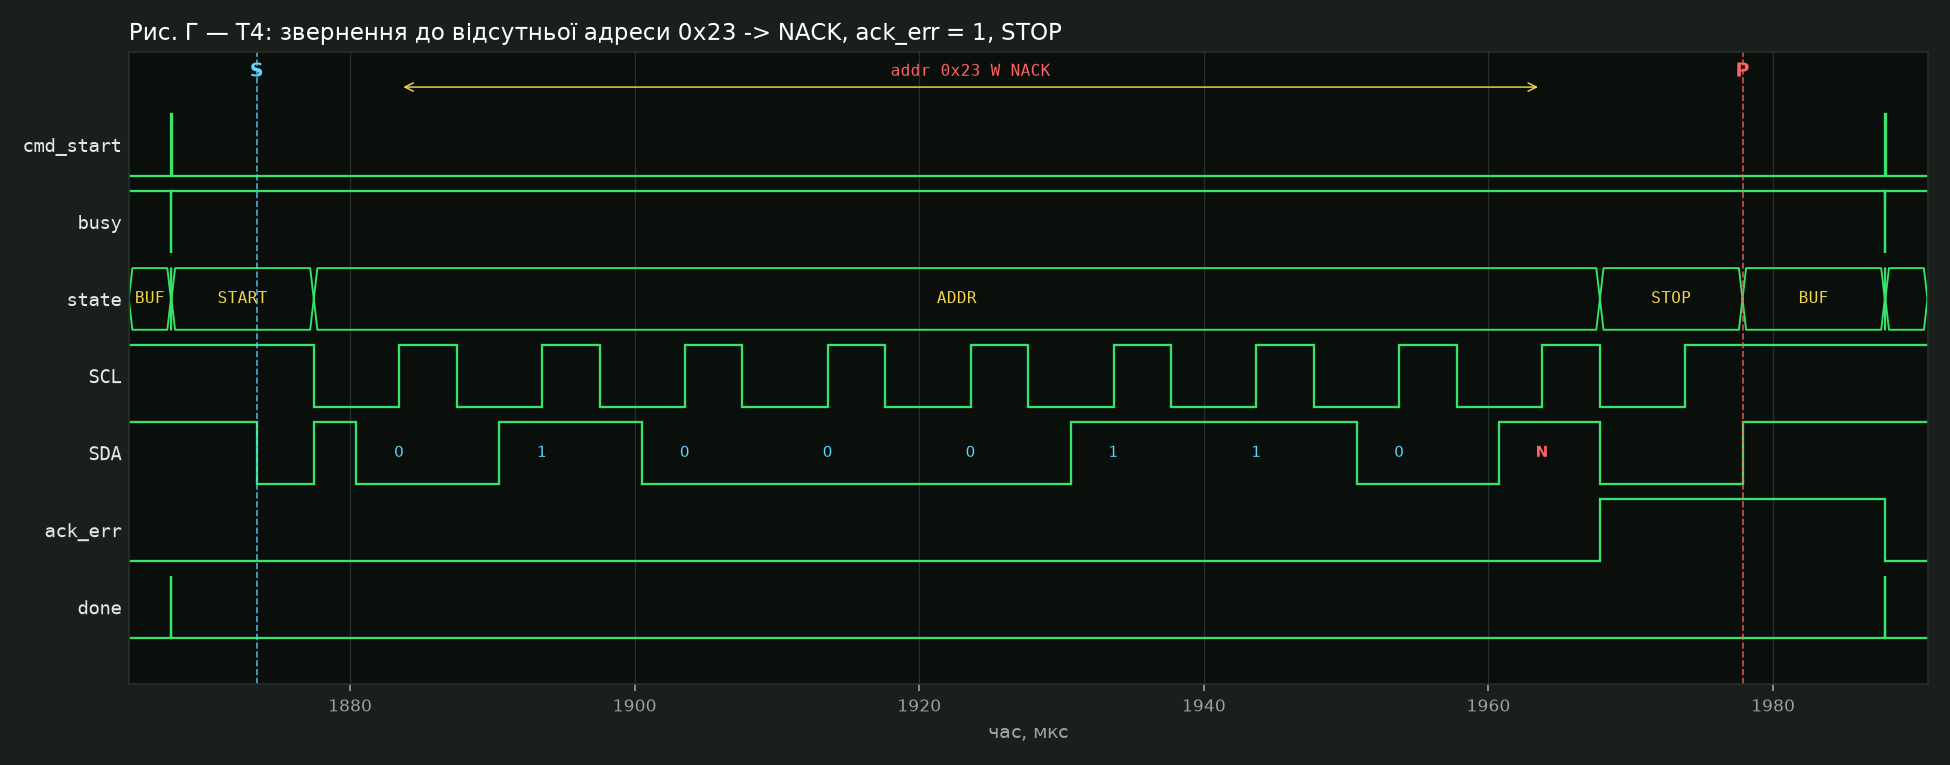
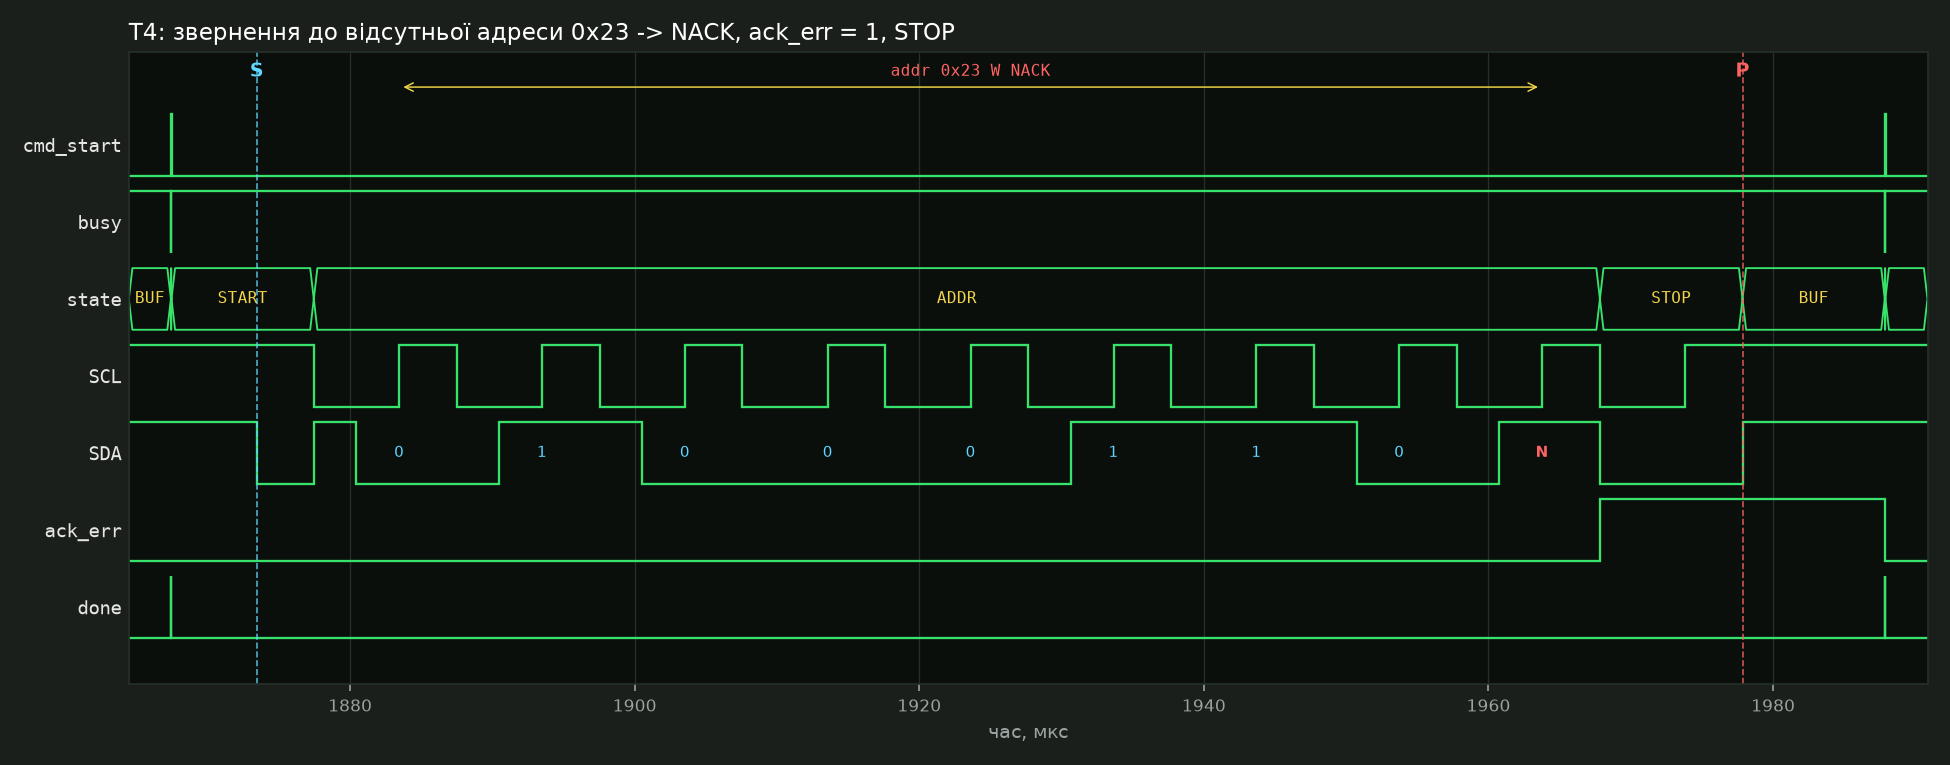
docs: drop figure numbers from waveform titles

Changed region(s): [[0.0615, 0.0301, 0.5538, 0.0601]]

diff --git a/sim/plot_waves.py b/sim/plot_waves.py
@@ -249,26 +249,26 @@ def main(freqs=("100000", "400000")):
             draw(d, [R("rst_n", "rst_n"), R("cmd_start", "cmd_start"), R("busy", "busy"),
                      R("state", "state", "state"), R("tx_data", "tx_data", "hex"), R("tx_req", "tx_req"),
                      R("SCL", "scl"), R("SDA", "sda"), R("ack_err", "ack_err"), R("done", "done")],
-                 a - pad, b + 3, f"Рис. А — T1: запис 5 байтів (ptr 0x02, DE AD BE EF) у пристрій 0x50, SCL = {khz} кГц",
+                 a - pad, b + 3, f"T1: запис 5 байтів (ptr 0x02, DE AD BE EF) у пристрій 0x50, SCL = {khz} кГц",
                  IMG / "wave_write.png")
             # 2. START + адресний байт (зум)
             draw(d, [R("state", "state", "state"), R("phase", "phase", "dec"), R("qtick", "qtick"),
                      R("u_tx.shreg", "tx_shreg", "hex"), R("scl_oe (DUT)", "scl_oe"), R("sda_oe (DUT)", "sda_oe"),
                      R("SCL", "scl"), R("SDA", "sda"), R("slave sda_low", "s_sda_low")],
-                 a - 3, a + 102, f"Рис. Б — START, адреса 0x50 + W і ACK веденого (фази 0–3 кожного такту SCL)",
+                 a - 3, a + 102, f"START, адреса 0x50 + W і ACK веденого (фази 0–3 кожного такту SCL)",
                  IMG / "wave_start_addr.png")
             # 3. читання (T2, друга транзакція пари)
             a, b = tr[2]
             draw(d, [R("busy", "busy"), R("state", "state", "state"), R("SCL", "scl"), R("SDA", "sda"),
                      R("slave sda_low", "s_sda_low"), R("sda_oe (DUT)", "sda_oe"), R("rx_valid", "rx_valid"),
                      R("rx_data", "rx_data", "hex"), R("done", "done")],
-                 a - 3, b + 3, f"Рис. В — T2: читання 4 байтів із 0x50 (майстер: ACK, ACK, ACK, NACK)",
+                 a - 3, b + 3, f"T2: читання 4 байтів із 0x50 (майстер: ACK, ACK, ACK, NACK)",
                  IMG / "wave_read.png")
             # 4. NACK (T4)
             a, b = tr[5]
             draw(d, [R("cmd_start", "cmd_start"), R("busy", "busy"), R("state", "state", "state"),
                      R("SCL", "scl"), R("SDA", "sda"), R("ack_err", "ack_err"), R("done", "done")],
-                 a - 3, b + 3, "Рис. Г — T4: звернення до відсутньої адреси 0x23 -> NACK, ack_err = 1, STOP",
+                 a - 3, b + 3, "T4: звернення до відсутньої адреси 0x23 -> NACK, ack_err = 1, STOP",
                  IMG / "wave_nack.png")
             # 5. clock stretching (T5): перший такт після ACK адреси
             a, b = tr[6]
@@ -276,13 +276,13 @@ def main(freqs=("100000", "400000")):
             t_ack = rises[8]
             draw(d, [R("state", "state", "state"), R("phase", "phase", "dec"), R("scl_oe (DUT)", "scl_oe"),
                      R("slave scl_low", "s_scl_low"), R("stretch", "stretch"), R("SCL", "scl"), R("SDA", "sda")],
-                 t_ack - 8, t_ack + 40, "Рис. Д — T5: clock stretching — ведений утримує SCL = 0 10 мкс, генератор фаз чекає",
+                 t_ack - 8, t_ack + 40, "T5: clock stretching — ведений утримує SCL = 0 10 мкс, генератор фаз чекає",
                  IMG / "wave_stretch.png", notes=[(t_ack + 6, "stretch = 1: qtick заблоковано")])
         else:
             a, b = tr[2]
             draw(d, [R("busy", "busy"), R("state", "state", "state"), R("SCL", "scl"), R("SDA", "sda"),
                      R("rx_valid", "rx_valid"), R("rx_data", "rx_data", "hex")],
-                 a - 1, b + 1, f"Рис. Е — Fast-mode {khz} кГц: читання 4 байтів (DE AD BE EF)",
+                 a - 1, b + 1, f"Fast-mode {khz} кГц: читання 4 байтів (DE AD BE EF)",
                  IMG / "wave_read_400k.png")
 
 
